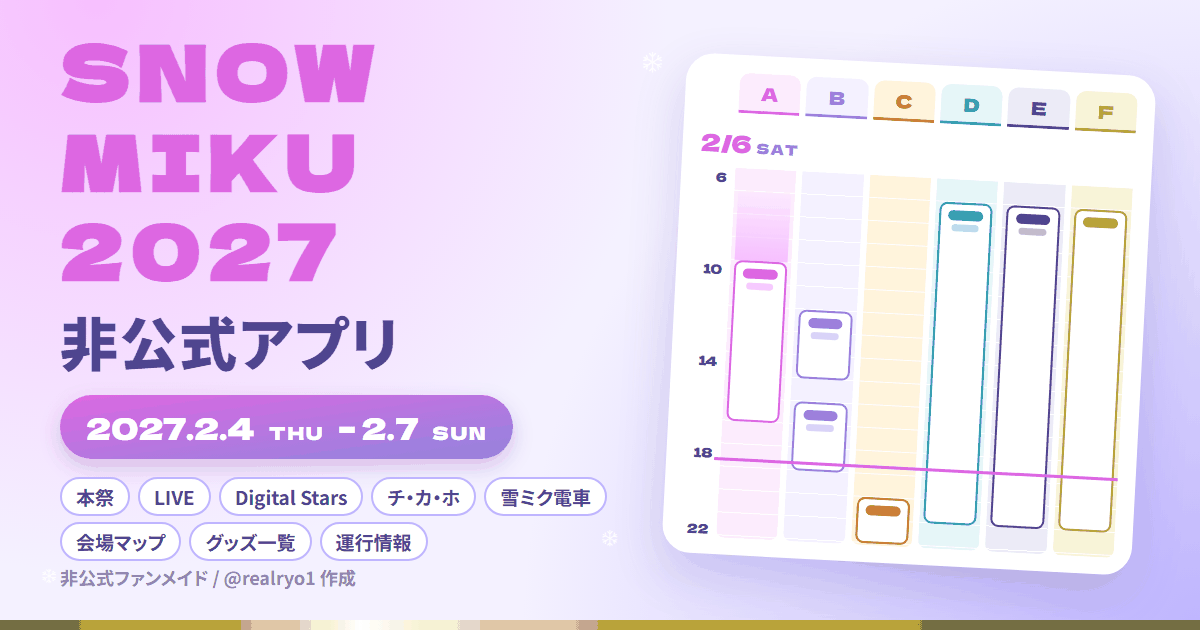
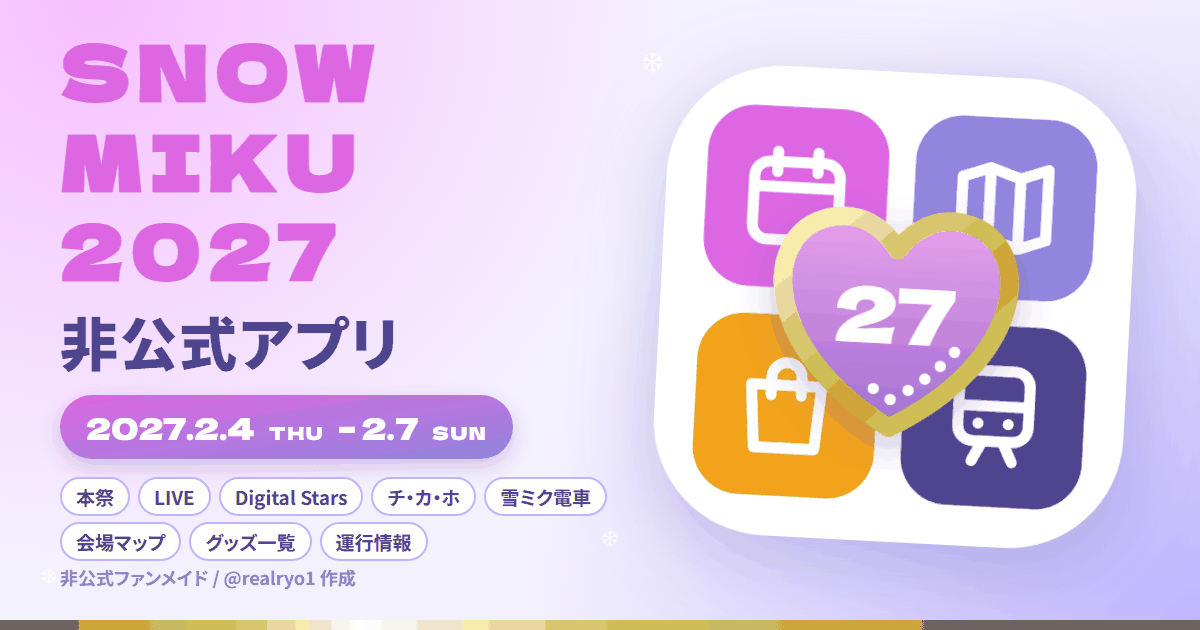
OGP画像の右側を、カレンダーのミニチュアからアプリアイコンの図柄（白い板・4つのタイル・♡27）に差し替え、ogp.pngを書き出し直した（PNG-8）

diff --git a/tools/ogp.html b/tools/ogp.html
@@ -46,30 +46,13 @@
   }
   .foot { position: absolute; left: 60px; bottom: 40px; font-size: 18px; font-weight: 700; opacity: .7; }
 
-  /* 右側：カレンダーのミニチュア */
+  /* 右側：アプリアイコン（tools/icon-app.html）の白い板・4つのタイル・♡27。背景の紫はOGPの背景にまかせる */
   .board {
-    position: absolute; right: 56px; top: 64px; width: 470px; height: 500px; padding: 18px;
-    border-radius: 28px; background: #fff; box-shadow: 0 20px 50px rgb(79 69 143 / .2);
-    transform: rotate(3deg);
+    position: absolute; right: 70px; top: 72px; width: 470px; height: 470px;
+    transform: rotate(3deg); filter: drop-shadow(0 20px 40px rgb(79 69 143 / .25));
   }
-  .heads, .cols { display: grid; grid-template-columns: 30px repeat(6, 1fr); gap: 6px; }
-  .heads div { height: 40px; border-radius: 10px 10px 0 0; font-family: "Dela Gothic One"; font-size: 18px; display: grid; place-items: center; }
-  .day { margin: 12px 0 8px; font-family: "Dela Gothic One"; font-size: 24px; color: var(--pink); }
-  .day small { font-size: 14px; color: var(--violet); letter-spacing: .1em; }
-  .cols { position: relative; height: 370px; }
-  .axis { position: relative; font-family: "Dela Gothic One"; font-size: 13px; }
-  .axis b { position: absolute; right: 2px; font-weight: 400; }
-  .col { position: relative; border-radius: 0 0 8px 8px;
-    background: repeating-linear-gradient(to bottom, transparent 0 22px, #fff 22px 23px), var(--tint); }
-  .ev { position: absolute; left: 4px; right: 4px; border: 2px solid var(--c); border-radius: 8px; background: #fff;
-    display: flex; flex-direction: column; align-items: center; padding-top: 6px; gap: 4px; }
-  .ev i { display: block; width: 70%; height: 10px; border-radius: 99px; background: var(--c); }
-  .ev u { display: block; width: 55%; height: 7px; border-radius: 99px; background: var(--c); opacity: .35; }
-  .wait { position: absolute; left: 4px; right: 4px; border-radius: 8px 8px 0 0; background: linear-gradient(transparent, var(--pink-l)); }
-  .tl { position: absolute; left: 0; right: 0; height: 0; border-top: 3px solid var(--pink); }
-  .a { --c: var(--pink); --tint: #fcecfd; } .b { --c: var(--violet); --tint: #f4f1ff; }
-  .c { --c: var(--orange); --tint: #fff4dc; } .d { --c: var(--teal); --tint: #e6f6f8; } .e { --c: var(--indigo); --tint: #ecebf7; } .f { --c: var(--gold); --tint: #f8f4d8; }
-  .heads .a, .heads .b, .heads .c, .heads .d, .heads .e, .heads .f { background: var(--tint); color: var(--c); border-bottom: 3px solid var(--c); }
+  .board svg { display: block; width: 100%; height: 100%; }
+  .board .t { font-family: "Dela Gothic One"; }
 </style>
 </head>
 <body>
@@ -87,25 +70,42 @@
   </div>
   <p class="foot">非公式ファンメイド / @realryo1 作成</p>
 
+  <!-- 形・色・座標は tools/icon-app.html と同じ（表示する範囲を白い板のまわりにしただけ）。アイコンを変えたらここも合わせる -->
   <div class="board">
-    <div class="heads"><div></div><div class="a">A</div><div class="b">B</div><div class="c">C</div><div class="d">D</div><div class="e">E</div><div class="f">F</div></div>
-    <p class="day">2/6 <small>SAT</small></p>
-    <div class="cols">
-      <div class="axis"><b style="top:0">6</b><b style="top:92px">10</b><b style="top:184px">14</b><b style="top:276px">18</b><b style="top:352px">22</b></div>
-      <div class="col a">
-        <div class="wait" style="top:18px;height:74px"></div>
-        <div class="ev" style="top:92px;height:161px"><i></i><u></u></div>
-      </div>
-      <div class="col b">
-        <div class="ev" style="top:138px;height:69px"><i></i><u></u></div>
-        <div class="ev" style="top:230px;height:69px"><i></i><u></u></div>
-      </div>
-      <div class="col c"><div class="ev" style="top:322px;height:46px"><i></i></div></div>
-      <div class="col d"><div class="ev" style="top:23px;height:322px"><i></i><u></u></div></div>
-      <div class="col e"><div class="ev" style="top:23px;height:322px"><i></i><u></u></div></div>
-      <div class="col f"><div class="ev" style="top:23px;height:322px"><i></i></div></div>
-      <div class="tl" style="top:290px;left:30px"></div>
-    </div>
+    <svg viewBox="15 15 70 70">
+      <defs>
+        <linearGradient id="heart" x1="0" y1="0" x2="0" y2="1">
+          <stop offset="0" stop-color="#E9A1EB"/><stop offset="1" stop-color="#9F6FD0"/>
+        </linearGradient>
+        <linearGradient id="gold" x1="0" y1="0" x2="1" y2="1">
+          <stop offset="0" stop-color="#FFF7C8"/><stop offset=".3" stop-color="#E8D774"/><stop offset=".6" stop-color="#B9A23C"/><stop offset=".85" stop-color="#D9CA5E"/><stop offset="1" stop-color="#F3E79A"/>
+        </linearGradient>
+        <filter id="shadow" x="-20%" y="-20%" width="140%" height="140%">
+          <feDropShadow dx="0" dy="2" stdDeviation="2.5" flood-color="#4F458F" flood-opacity=".3"/>
+        </filter>
+        <g id="i-calendar"><rect x="3.5" y="5" width="17" height="15.5" rx="3"/><path d="M3.5 10h17M8 3v4M16 3v4"/></g>
+        <g id="i-map"><path d="M9 4 3.5 6v14L9 18l6 2 5.5-2V4L15 6 9 4zM9 4v14M15 6v14"/></g>
+        <g id="i-bag"><path d="M5 8h14l-1 12.5H6L5 8z"/><path d="M9 10V6.5a3 3 0 0 1 6 0V10"/></g>
+        <g id="i-train"><rect x="5" y="3" width="14" height="14" rx="3"/><path d="M5 10h14M9 13.5h.01M15 13.5h.01M8 21l2-4M16 21l-2-4"/></g>
+      </defs>
+      <rect x="15" y="15" width="70" height="70" rx="17" fill="#fff"/>
+      <g fill="none" stroke="#fff" stroke-width="2.2" stroke-linecap="round" stroke-linejoin="round">
+        <rect x="21" y="21" width="27" height="27" rx="7" fill="#DD67E2" stroke="none"/>
+        <rect x="52" y="21" width="27" height="27" rx="7" fill="#9185DE" stroke="none"/>
+        <rect x="21" y="52" width="27" height="27" rx="7" fill="#F2A31B" stroke="none"/>
+        <rect x="52" y="52" width="27" height="27" rx="7" fill="#4F458F" stroke="none"/>
+        <use href="#i-calendar" transform="translate(25.5 25.5) scale(.75)"/>
+        <use href="#i-map" transform="translate(56.5 25.5) scale(.75)"/>
+        <use href="#i-bag" transform="translate(25.5 56.5) scale(.75)"/>
+        <use href="#i-train" transform="translate(56.5 56.5) scale(.75)"/>
+      </g>
+      <path d="M50 68C30 57 29.5 40 39.5 37.2c4.8-1.3 8.4 1.2 10.5 4.3 2.1-3.1 5.7-5.6 10.5-4.3 10 2.8 9.5 19.8-10.5 30.8z" fill="url(#heart)" stroke="url(#gold)" stroke-width="2.8" stroke-linejoin="round" filter="url(#shadow)"/>
+      <text class="t" x="50" y="55.5" font-size="11.5" text-anchor="middle" fill="#fff">27</text>
+      <g fill="#fff">
+        <circle cx="47.4" cy="62.3" r=".85"/><circle cx="50" cy="63.8" r=".85"/><circle cx="52.6" cy="62.3" r=".85"/>
+        <circle cx="55" cy="60.5" r=".85"/><circle cx="57.2" cy="58.5" r=".85"/><circle cx="59.2" cy="56.3" r=".85"/>
+      </g>
+    </svg>
   </div>
 </body>
 </html>
